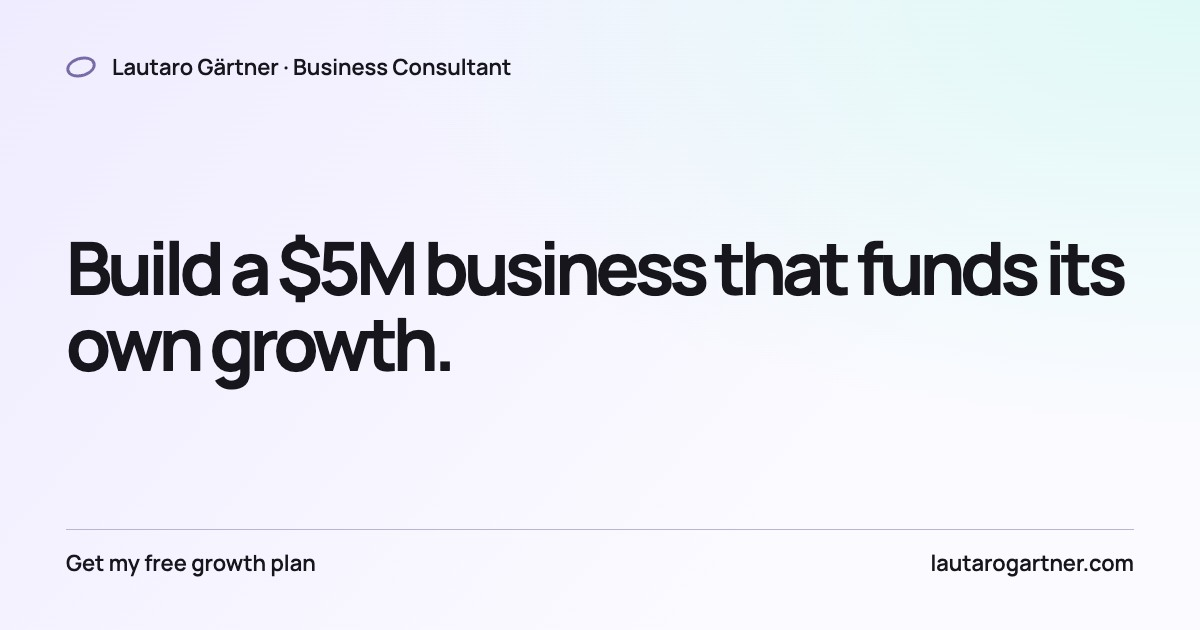
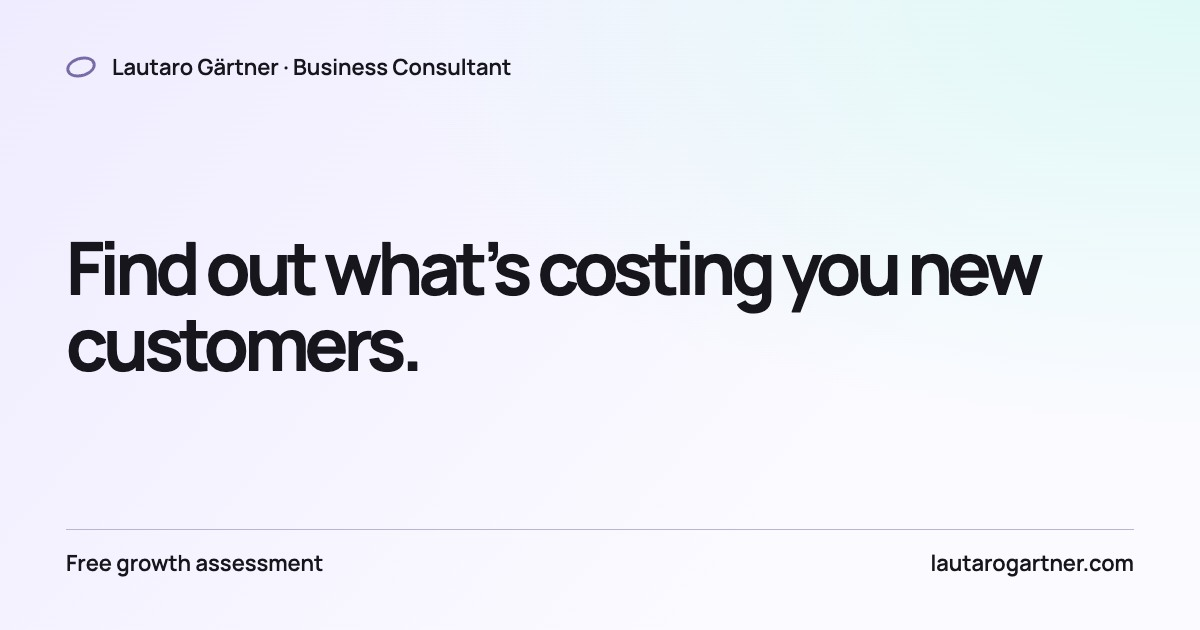
Clarify the growth assessment and qualify applicants after the initial step

Changed region(s): [[0.0617, 0.3619, 0.9558, 0.6333], [0.0617, 0.8746, 0.2775, 0.9349]]

diff --git a/public/consulting.css b/public/consulting.css
@@ -376,6 +376,11 @@ main > .data-settings {
   align-items: start;
   gap: clamp(32px, 6vw, 88px);
 }
+.consult-case { margin: 0; }
+.consult-case img { display: block; width: 100%; height: auto; border: 1px solid var(--line); border-radius: 12px; }
+.consult-case h3 { margin: 20px 0 8px; }
+.consult-case p { margin: 0 0 12px; }
+.consult-case a { color: var(--accent); text-underline-offset: .2em; }
 .implementation-phases details:last-child { border-bottom: 1px solid var(--line); }
 .implementation-phases summary { position: relative; padding-right: 28px; list-style: none; }
 .implementation-phases summary::-webkit-details-marker { display: none; }
